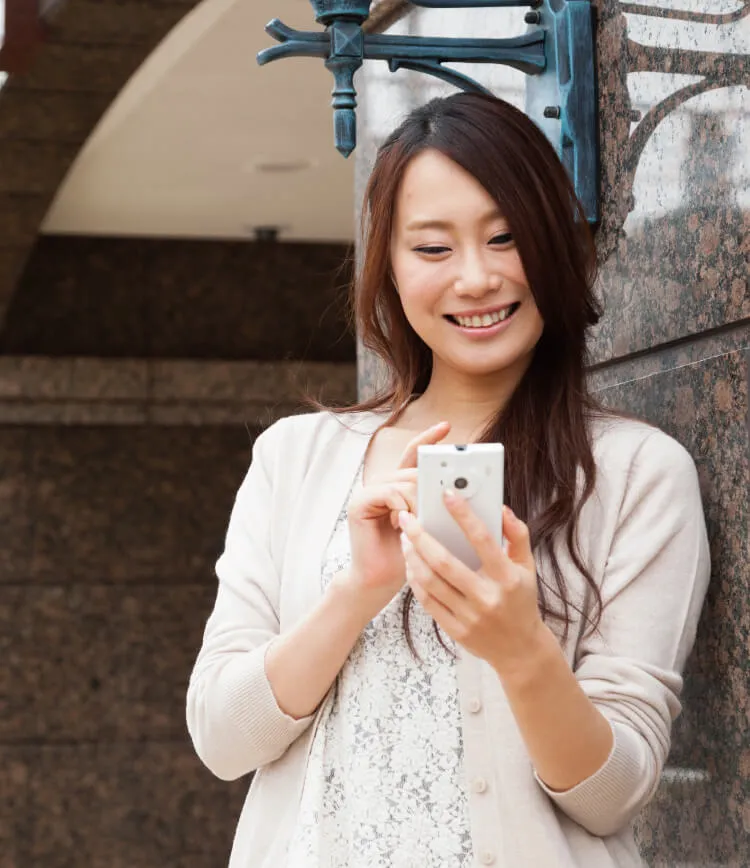
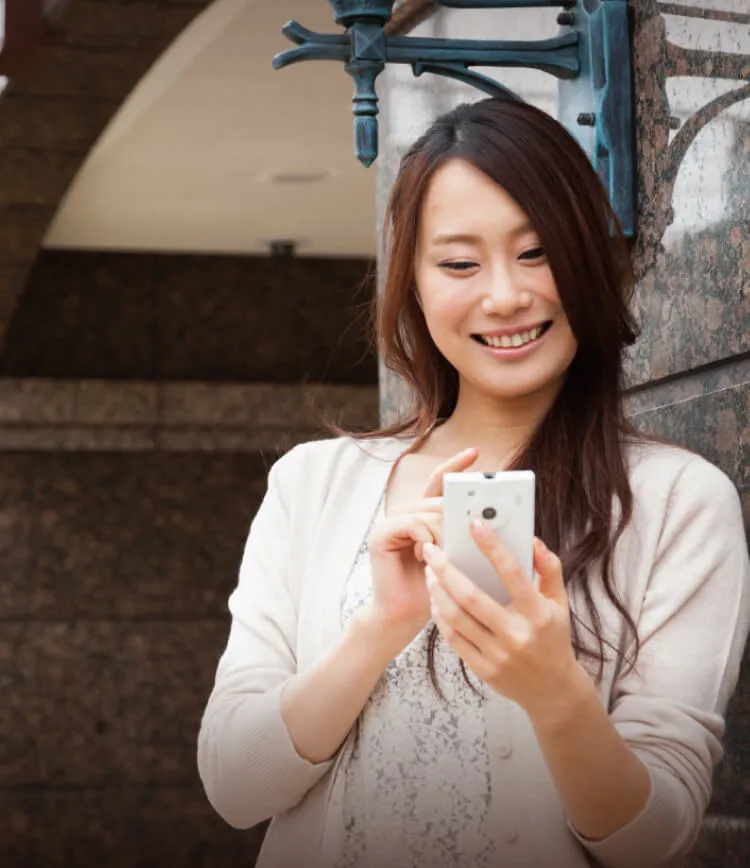
セキュリティ、エコ画像変更、マップ文章差し替え

diff --git a/assets/css/common.css b/assets/css/common.css
@@ -137,9 +137,9 @@ label {
 }
 .mainvisual-pos {
   position: absolute;
-  font-size: calc((10 / 375) * 100vw);
+  font-size: calc((11 / 375) * 100vw);
   text-shadow: 7px 4px 4px rgba(0, 0, 0, 0.7);
-  text-align: right;
+  text-align: left;
   line-height: 2;
   color: #fff;
 }

diff --git a/assets/css/model.css b/assets/css/model.css
@@ -18,7 +18,7 @@
 .model__map {
   width: 100%;
   margin: 0 auto 60px;
-  border: 2px solid #3b3b3b;
+  border: 2px solid #636363;
 }
 .covid {
   margin: 0 auto 60px;

diff --git a/model-room/model-room.php b/model-room/model-room.php
@@ -7,17 +7,18 @@
         </div>
         <div class="info">
             <dl class="info__unit">
-                <dt class="info__title">グランファーレ真駒内グランフォレスト マンションギャラリー<br class="br_sp">いよいよ2月25日（土）よりプレオープン！</dt>
+                <dt class="info__title">グランファーレ真駒内グランフォレスト マンションギャラリー<br class="br_sp">いよいよ6月3日（土）よりプレオープン！</dt>
                 <dd class="text"></dd>
             </dl>
 
             <dl class="info__unit">
                 <dt class="info__title">住所</dt>
-                <dd class="text">札幌市中央区南6条西15丁目2-5 1F</dd>
+                <dd class="text">札幌市南区真駒内緑町1丁目3番</dd>
             </dl>
             <dl class="info__unit">
                 <dt class="info__title">営業時間</dt>
-                <dd class="text">平日：11:00～17:00（火曜・水曜定休）土日祝：10:00～17:00</dd>
+                <dd class="text">平日：11:00～17:00（火曜・水曜定休）土日祝：10:00～17:00<br>
+                    ※マンションギャラリーには駐車場をご用意しております。お車でお越しの際はご利用ください。</dd>
             </dl>
         </div>
 
